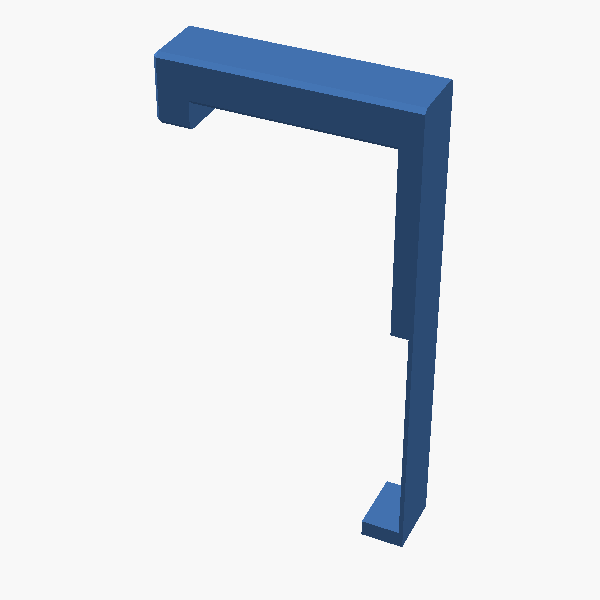
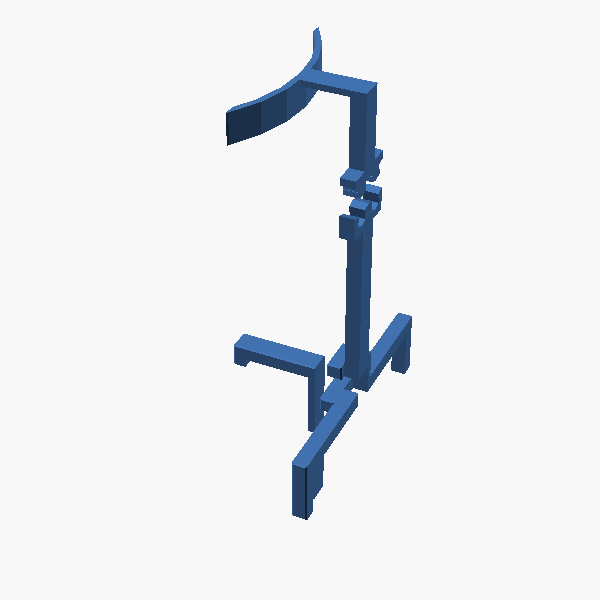
generate_readmes/renders

Changed region(s): [[0.24, 0.03, 0.78, 0.93]]

diff --git a/actually useful or otherwise interesting/README.md b/actually useful or otherwise interesting/README.md
@@ -607,3 +607,91 @@ I have a few shot glasses that are useful for dispensing liquid medicine. The th
 - SCAD: [2025-06-29 webcam wedge to angle it a little differently.scad](2025-06-29%20webcam%20wedge%20to%20angle%20it%20a%20little%20differently.scad)
 - STL: [2025-06-29 webcam wedge to angle it a little differently.stl](2025-06-29%20webcam%20wedge%20to%20angle%20it%20a%20little%20differently.stl)
 <!-- AUTOGEN:END 2025-06-29 webcam wedge to angle it a little differently -->
+
+## 2026-06-18 keyboard ramp thingy
+
+<!-- AUTOGEN:START 2026-06-18 keyboard ramp thingy -->
+![2026-06-18 keyboard ramp thingy](renders/2026-06-18%20keyboard%20ramp%20thingy.png)
+
+**Files:**
+
+- SCAD: [2026-06-18 keyboard ramp thingy.scad](2026-06-18%20keyboard%20ramp%20thingy.scad)
+- STL: [2026-06-18 keyboard ramp thingy.stl](2026-06-18%20keyboard%20ramp%20thingy.stl)
+<!-- AUTOGEN:END 2026-06-18 keyboard ramp thingy -->
+
+## 2026-07-05 camera mount for ipad personal voice recording
+
+<!-- AUTOGEN:START 2026-07-05 camera mount for ipad personal voice recording -->
+![2026-07-05 camera mount for ipad personal voice recording](renders/2026-07-05%20camera%20mount%20for%20ipad%20personal%20voice%20recording.png)
+
+**Files:**
+
+- SCAD: [2026-07-05 camera mount for ipad personal voice recording.scad](2026-07-05%20camera%20mount%20for%20ipad%20personal%20voice%20recording.scad)
+- STL: [2026-07-05 camera mount for ipad personal voice recording.stl](2026-07-05%20camera%20mount%20for%20ipad%20personal%20voice%20recording.stl)
+<!-- AUTOGEN:END 2026-07-05 camera mount for ipad personal voice recording -->
+
+## 2026-07-07 blender holder
+
+<!-- AUTOGEN:START 2026-07-07 blender holder -->
+![2026-07-07 blender holder](renders/2026-07-07%20blender%20holder.png)
+
+**Files:**
+
+- SCAD: [2026-07-07 blender holder.scad](2026-07-07%20blender%20holder.scad)
+- STL: [2026-07-07 blender holder.stl](2026-07-07%20blender%20holder.stl)
+<!-- AUTOGEN:END 2026-07-07 blender holder -->
+
+## 2026-08-11 wand sprayer extension arm
+
+<!-- AUTOGEN:START 2026-08-11 wand sprayer extension arm -->
+![2026-08-11 wand sprayer extension arm](renders/2026-08-11%20wand%20sprayer%20extension%20arm.png)
+
+**Files:**
+
+- SCAD: [2026-08-11 wand sprayer extension arm.scad](2026-08-11%20wand%20sprayer%20extension%20arm.scad)
+- STL: [2026-08-11 wand sprayer extension arm.stl](2026-08-11%20wand%20sprayer%20extension%20arm.stl)
+<!-- AUTOGEN:END 2026-08-11 wand sprayer extension arm -->
+
+## 2026-08-22 bin frame rod endcaps
+
+<!-- AUTOGEN:START 2026-08-22 bin frame rod endcaps -->
+![2026-08-22 bin frame rod endcaps](renders/2026-08-22%20bin%20frame%20rod%20endcaps.png)
+
+**Files:**
+
+- SCAD: [2026-08-22 bin frame rod endcaps.scad](2026-08-22%20bin%20frame%20rod%20endcaps.scad)
+- STL: [2026-08-22 bin frame rod endcaps.stl](2026-08-22%20bin%20frame%20rod%20endcaps.stl)
+<!-- AUTOGEN:END 2026-08-22 bin frame rod endcaps -->
+
+## 2026-09-06 freezer drain water collector
+
+<!-- AUTOGEN:START 2026-09-06 freezer drain water collector -->
+![2026-09-06 freezer drain water collector](renders/2026-09-06%20freezer%20drain%20water%20collector.png)
+
+**Files:**
+
+- SCAD: [2026-09-06 freezer drain water collector.scad](2026-09-06%20freezer%20drain%20water%20collector.scad)
+- STL: [2026-09-06 freezer drain water collector.stl](2026-09-06%20freezer%20drain%20water%20collector.stl)
+<!-- AUTOGEN:END 2026-09-06 freezer drain water collector -->
+
+## 2026-09-19 pill tray
+
+<!-- AUTOGEN:START 2026-09-19 pill tray -->
+![2026-09-19 pill tray](renders/2026-09-19%20pill%20tray.png)
+
+**Files:**
+
+- SCAD: [2026-09-19 pill tray.scad](2026-09-19%20pill%20tray.scad)
+- STL: [2026-09-19 pill tray.stl](2026-09-19%20pill%20tray.stl)
+<!-- AUTOGEN:END 2026-09-19 pill tray -->
+
+## 2026-09-25 laptop arm desk attachment thing
+
+<!-- AUTOGEN:START 2026-09-25 laptop arm desk attachment thing -->
+![2026-09-25 laptop arm desk attachment thing](renders/2026-09-25%20laptop%20arm%20desk%20attachment%20thing.png)
+
+**Files:**
+
+- SCAD: [2026-09-25 laptop arm desk attachment thing.scad](2026-09-25%20laptop%20arm%20desk%20attachment%20thing.scad)
+- STL: [2026-09-25 laptop arm desk attachment thing.stl](2026-09-25%20laptop%20arm%20desk%20attachment%20thing.stl)
+<!-- AUTOGEN:END 2026-09-25 laptop arm desk attachment thing -->

diff --git a/failures but good effort/README.md b/failures but good effort/README.md
@@ -157,3 +157,25 @@ Doesn't quite work to stabilize the top bottle yet.
 - SCAD: [2025-12-28 trap door hinge foot guard 2.scad](2025-12-28%20trap%20door%20hinge%20foot%20guard%202.scad)
 - STL: [2025-12-28 trap door hinge foot guard 2.stl](2025-12-28%20trap%20door%20hinge%20foot%20guard%202.stl)
 <!-- AUTOGEN:END 2025-12-28 trap door hinge foot guard 2 -->
+
+## 2026-07-25 pool vacuum basket stand
+
+<!-- AUTOGEN:START 2026-07-25 pool vacuum basket stand -->
+![2026-07-25 pool vacuum basket stand](renders/2026-07-25%20pool%20vacuum%20basket%20stand.png)
+
+**Files:**
+
+- SCAD: [2026-07-25 pool vacuum basket stand.scad](2026-07-25%20pool%20vacuum%20basket%20stand.scad)
+- STL: [2026-07-25 pool vacuum basket stand.stl](2026-07-25%20pool%20vacuum%20basket%20stand.stl)
+<!-- AUTOGEN:END 2026-07-25 pool vacuum basket stand -->
+
+## 2026-07-26 bin frame
+
+<!-- AUTOGEN:START 2026-07-26 bin frame -->
+![2026-07-26 bin frame](renders/2026-07-26%20bin%20frame.png)
+
+**Files:**
+
+- SCAD: [2026-07-26 bin frame.scad](2026-07-26%20bin%20frame.scad)
+- STL: [2026-07-26 bin frame.stl](2026-07-26%20bin%20frame.stl)
+<!-- AUTOGEN:END 2026-07-26 bin frame -->

diff --git a/office floor project/README.md b/office floor project/README.md
@@ -109,3 +109,14 @@
 - SCAD: [2025-12-12 level floor 2.scad](2025-12-12%20level%20floor%202.scad)
 - STL: [2025-12-12 level floor 2.stl](2025-12-12%20level%20floor%202.stl)
 <!-- AUTOGEN:END 2025-12-12 level floor 2 -->
+
+## 2026-10-06 trap door puller
+
+<!-- AUTOGEN:START 2026-10-06 trap door puller -->
+![2026-10-06 trap door puller](renders/2026-10-06%20trap%20door%20puller.png)
+
+**Files:**
+
+- SCAD: [2026-10-06 trap door puller.scad](2026-10-06%20trap%20door%20puller.scad)
+- STL: [2026-10-06 trap door puller.stl](2026-10-06%20trap%20door%20puller.stl)
+<!-- AUTOGEN:END 2026-10-06 trap door puller -->

diff --git a/obscure one-offs/README.md b/obscure one-offs/README.md
@@ -65,3 +65,14 @@
 - SCAD: [2026-05-03 kian's wedge for monitor.scad](2026-05-03%20kian%27s%20wedge%20for%20monitor.scad)
 - STL: [2026-05-03 kian's wedge for monitor.stl](2026-05-03%20kian%27s%20wedge%20for%20monitor.stl)
 <!-- AUTOGEN:END 2026-05-03 kian's wedge for monitor -->
+
+## 2026-06-21 floor gap
+
+<!-- AUTOGEN:START 2026-06-21 floor gap -->
+![2026-06-21 floor gap](renders/2026-06-21%20floor%20gap.png)
+
+**Files:**
+
+- SCAD: [2026-06-21 floor gap.scad](2026-06-21%20floor%20gap.scad)
+- STL: [2026-06-21 floor gap.stl](2026-06-21%20floor%20gap.stl)
+<!-- AUTOGEN:END 2026-06-21 floor gap -->
